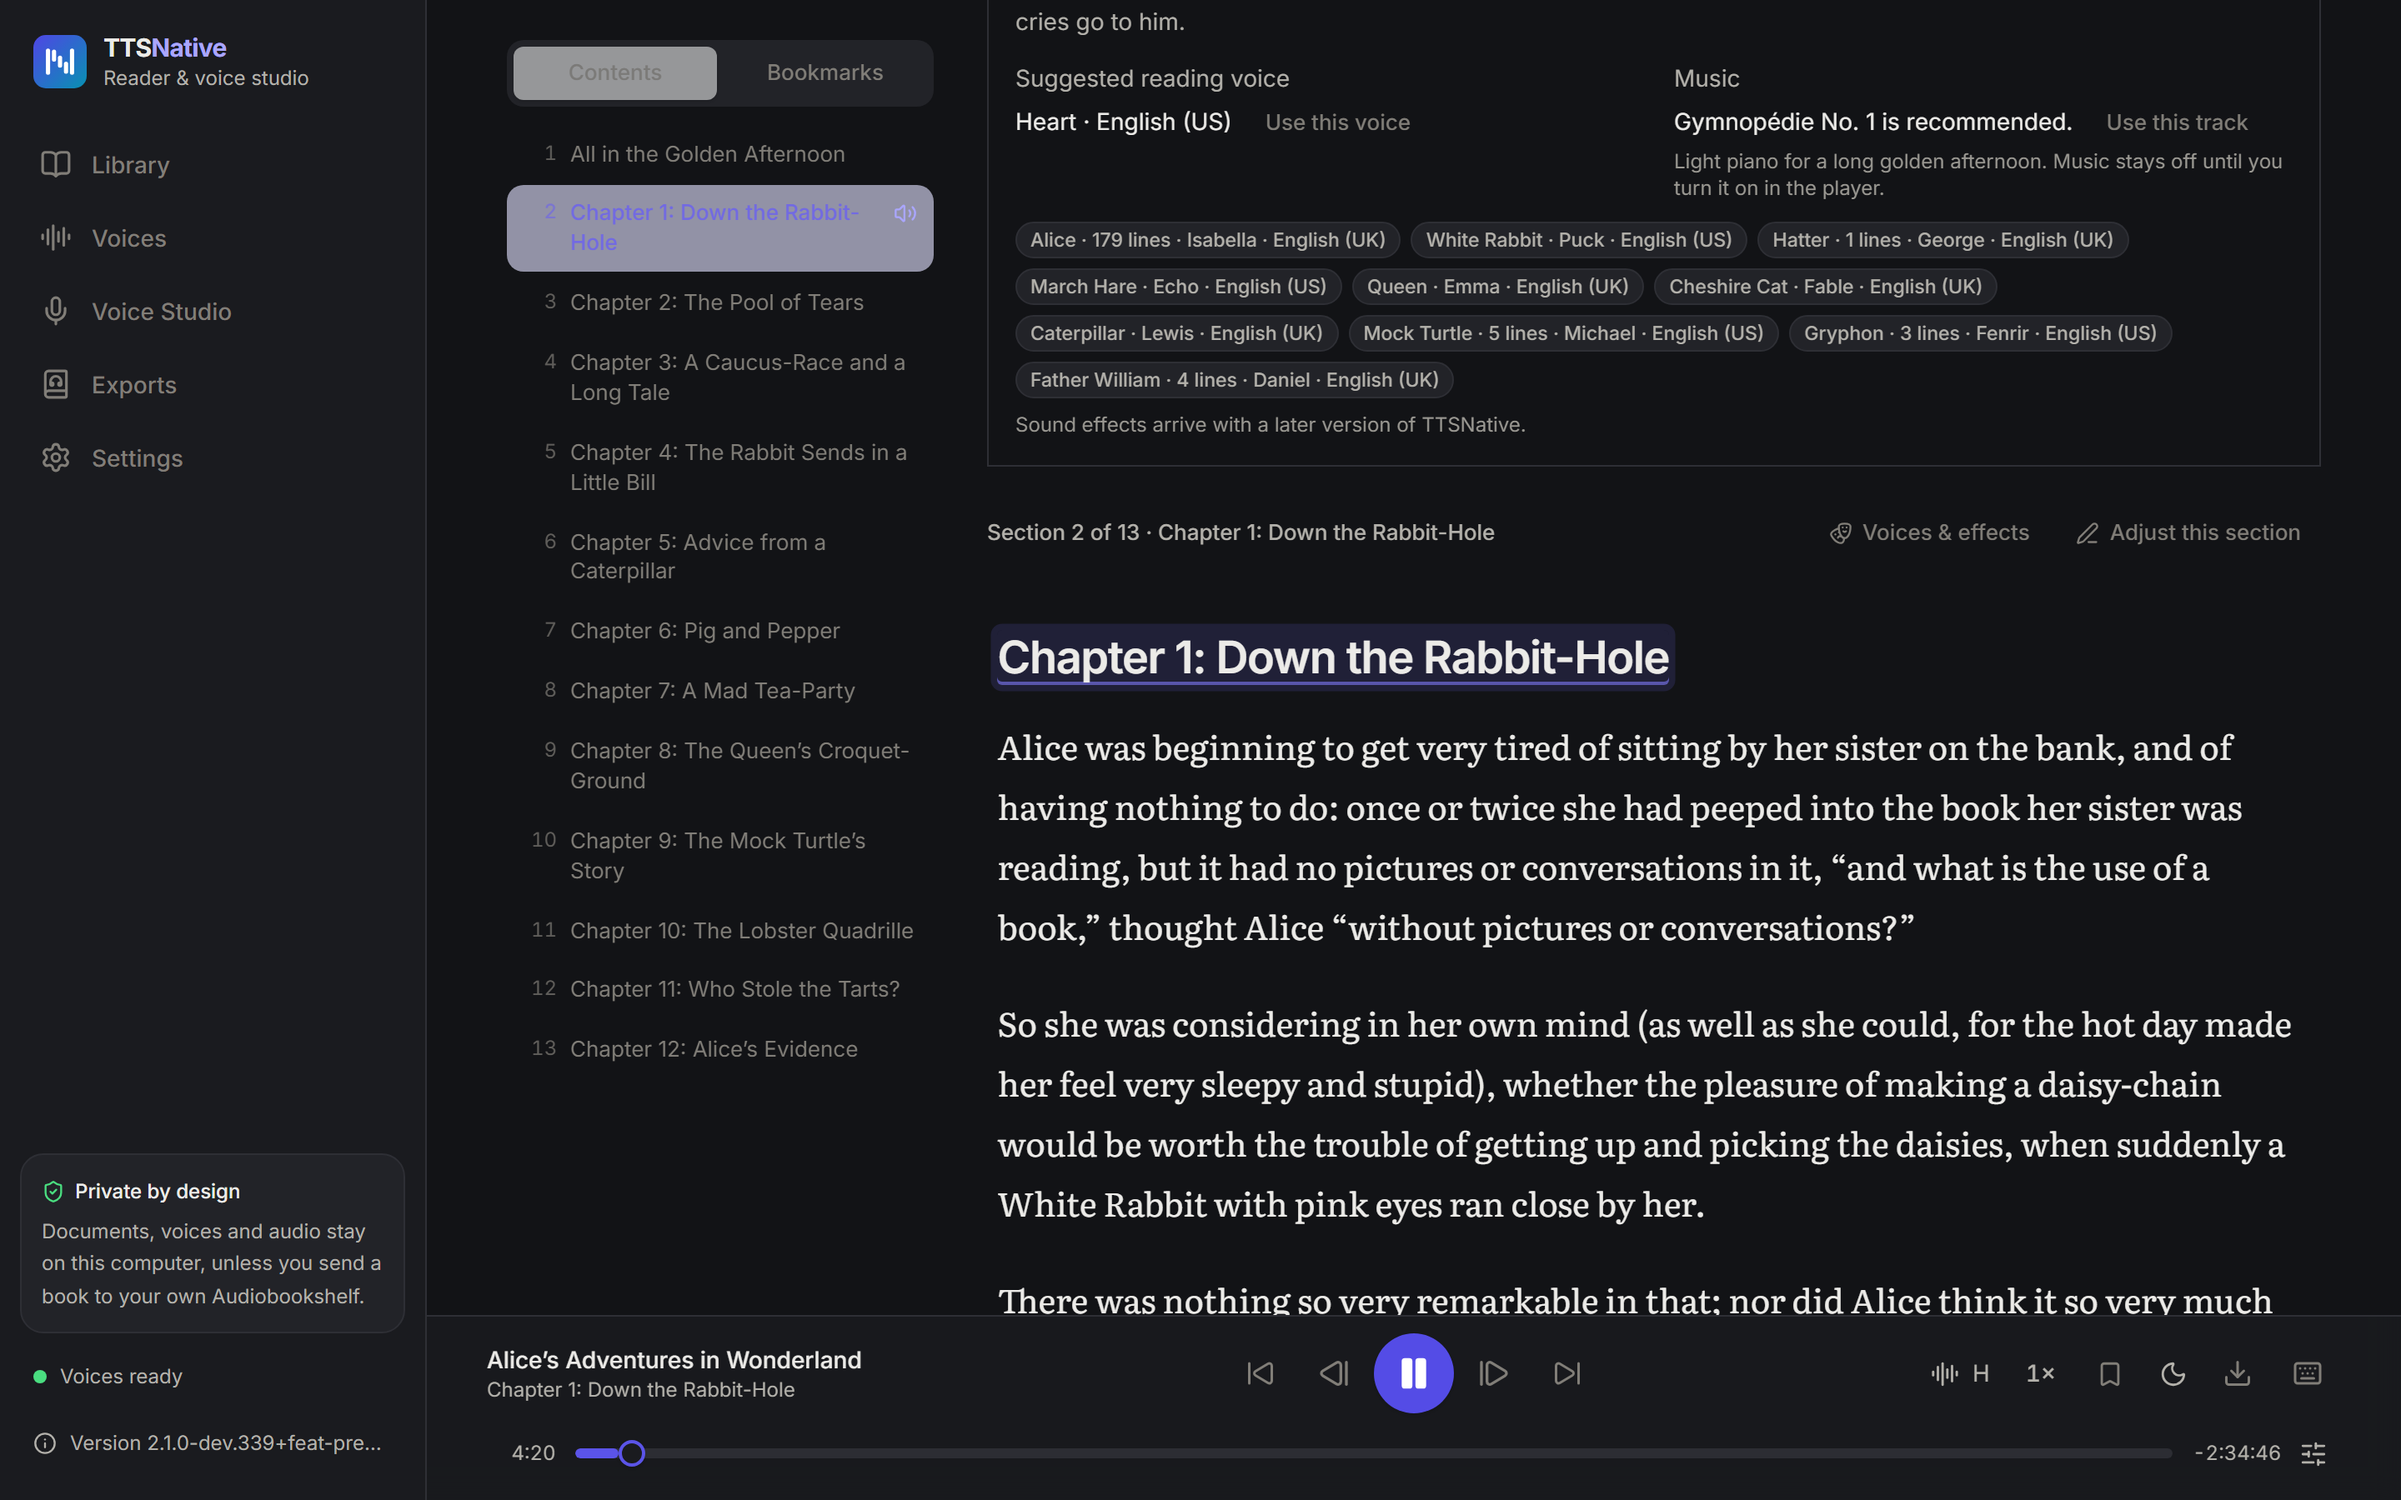
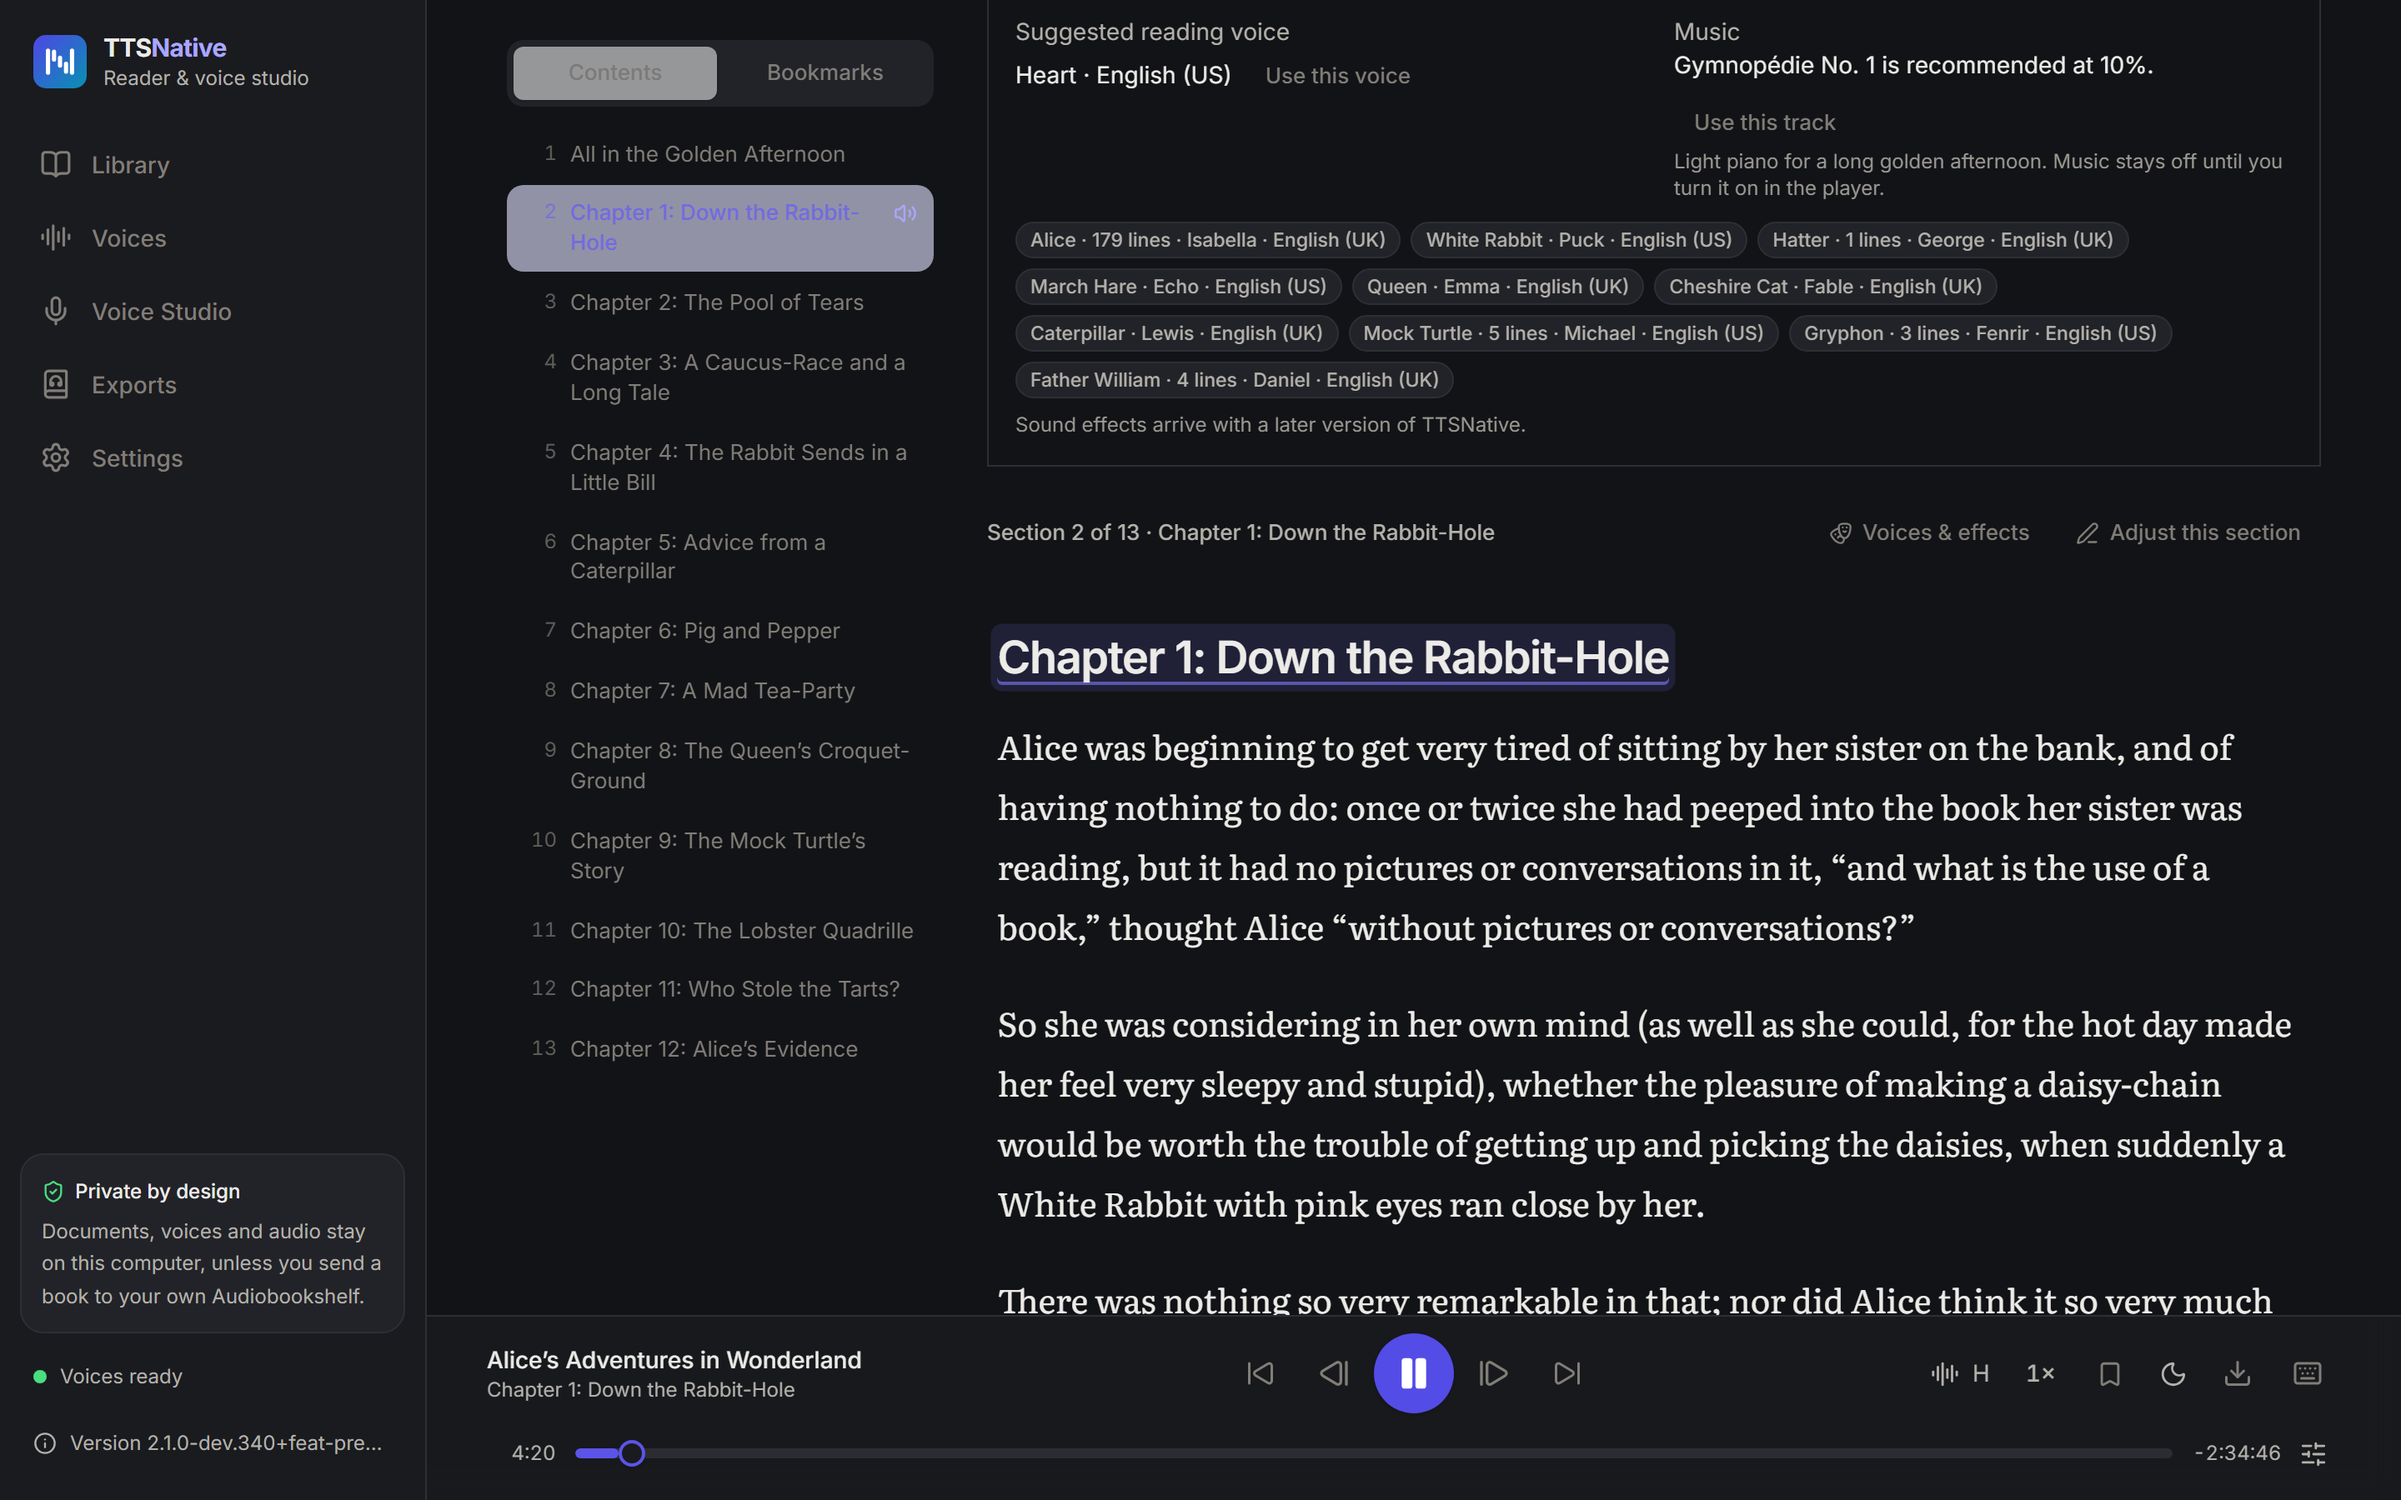
feat(presets): say the level Use this track sets, since it replaces the reader's own

Changed region(s): [[0.6875, 0.0, 0.9375, 0.0933], [0.4062, 0.0, 0.5625, 0.0933]]

diff --git a/apps/web/src/features/reader/ReadingExperience.tsx b/apps/web/src/features/reader/ReadingExperience.tsx
@@ -62,12 +62,14 @@ function MusicRecommendation({ music }: Readonly<{ music: PresetMusic }>) {
             <span>The recommended track isn't in this version's music library.</span>
           ) : state.trackId === track.id ? (
             <span>
-              {track.title} is recommended.{' '}
+              {track.title} is recommended at {music.volume}%.{' '}
               <span className="text-subtle">Chosen in the player.</span>
             </span>
           ) : (
             <>
-              <span>{track.title} is recommended.</span>
+              <span>
+                {track.title} is recommended at {music.volume}%.
+              </span>
               <Button variant="ghost" size="sm" onClick={() => acceptTrack(session, music)}>
                 Use this track
               </Button>

diff --git a/apps/web/src/features/reader/readingExperience.test.tsx b/apps/web/src/features/reader/readingExperience.test.tsx
@@ -157,7 +157,9 @@ describe('Reading experience', () => {
     expect(within(chooser).getByRole('radio', { name: /Standard/ })).toBeChecked();
     expect(within(chooser).queryByRole('radio', { name: /Immersive/ })).not.toBeInTheDocument();
     expect(within(chooser).getByText(NOTE)).toBeInTheDocument();
-    expect(within(chooser).getByText('Gymnopédie No. 1 is recommended.')).toBeInTheDocument();
+    expect(
+      within(chooser).getByText('Gymnopédie No. 1 is recommended at 10%.'),
+    ).toBeInTheDocument();
     expect(
       within(chooser).getByText('Light piano. Music stays off until you turn it on in the player.'),
     ).toBeInTheDocument();
